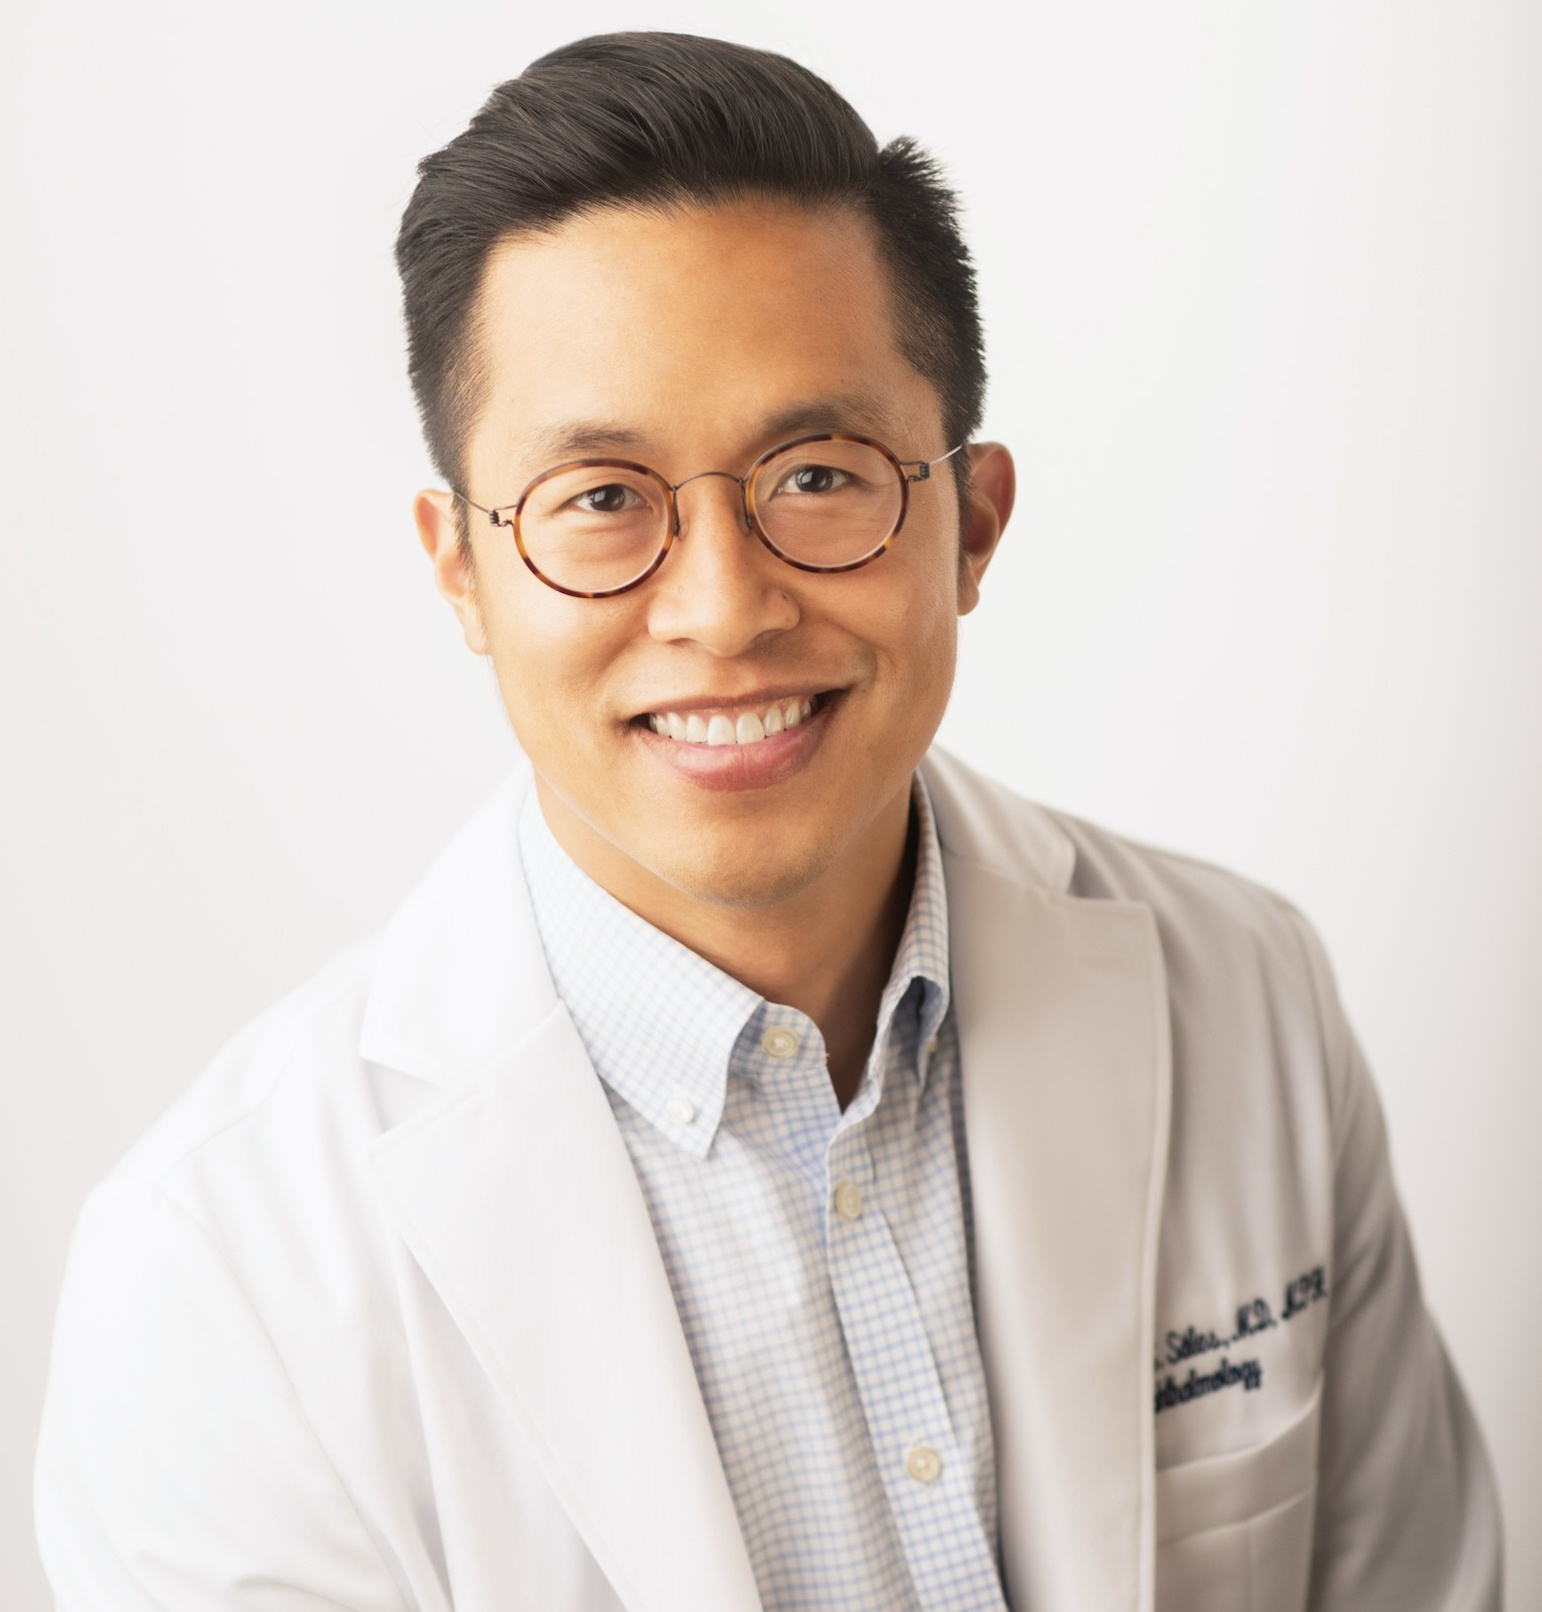
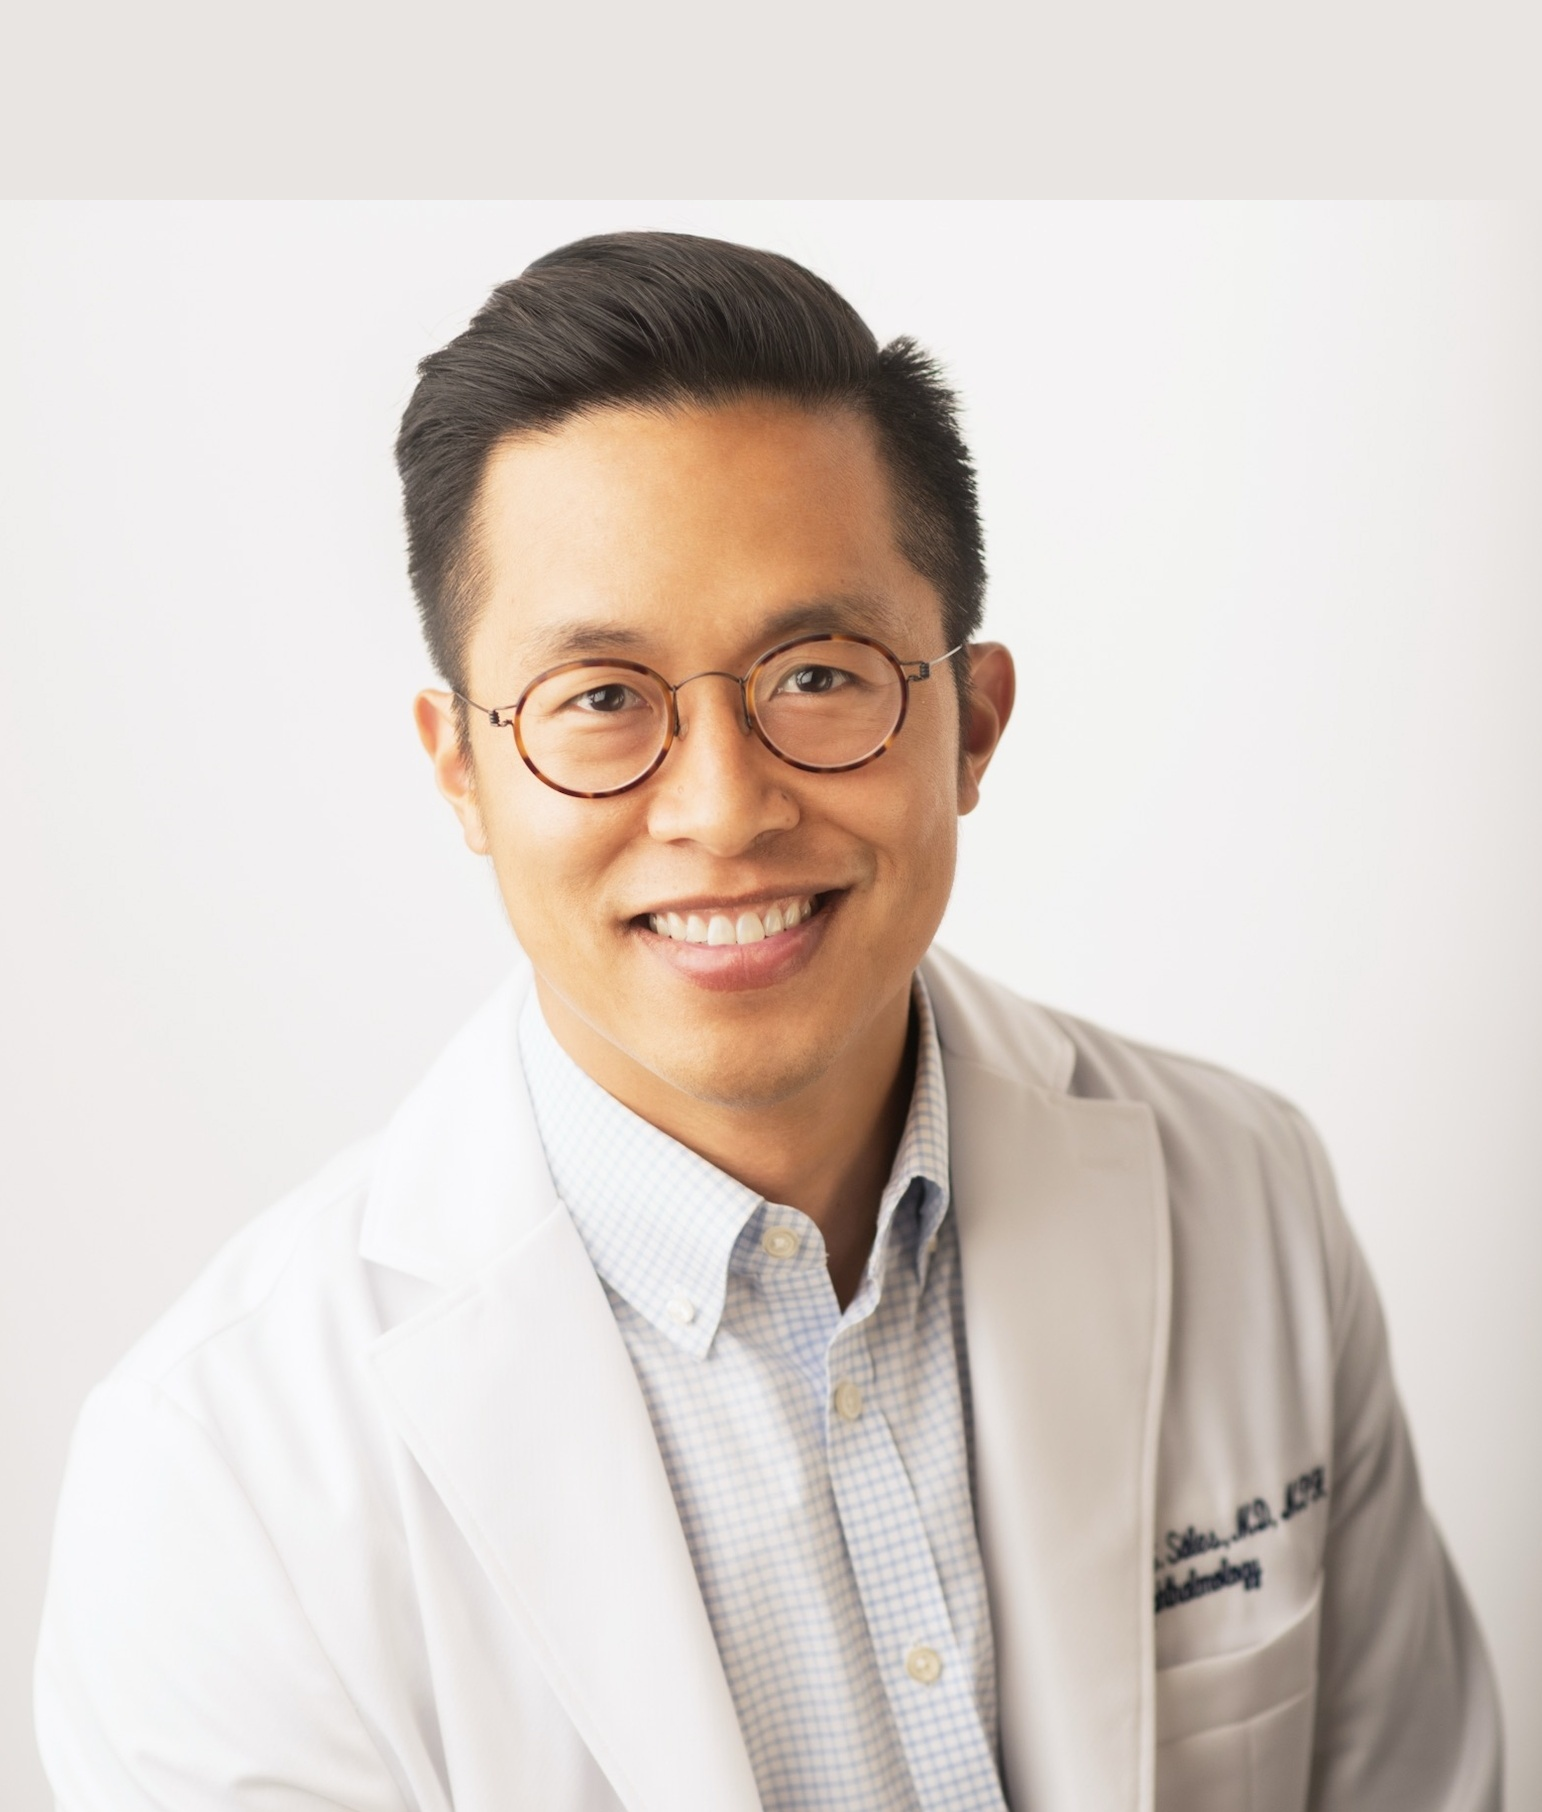
Add Vimeo videos to resources page, fix hero photo framing and rotating text
- Add 4 Vimeo videos from Dr. Sales: Fuchs 101, Lens Implant Choices,
  Cataract Post-Op, DMEK Post-Op
- Fix rotating text "involve you in decisions" clipping with whitespace-nowrap
- Adjust hero photo framing per Chris's crop guide (more headroom above head)

Changed region(s): [[0.249, 0.0, 0.9339, 0.9615], [0.9339, 0.8375, 0.965, 0.8995], [0.7471, 0.7134, 0.7782, 0.7754]]

diff --git a/src/app/resources/page.tsx b/src/app/resources/page.tsx
@@ -62,6 +62,37 @@ export default function ResourcesPage() {
         </div>
       </Section>
 
+      {/* Video Resources */}
+      <Section background="light">
+        <SectionHeader
+          title="Videos from Dr. Sales"
+          subtitle="Watch Dr. Sales explain common conditions and what to expect before and after surgery"
+        />
+        <div className="grid md:grid-cols-2 gap-8 max-w-5xl mx-auto">
+          {[
+            { title: 'Fuchs\' Dystrophy 101', vimeoId: '1174611919', hash: '82c202ed85', aspect: '75%' },
+            { title: 'Choosing the Right Lens Implant', vimeoId: '1174611822', hash: '0f299a896c', aspect: '56.25%' },
+            { title: 'Cataract Post-Op Instructions', vimeoId: '1174612124', hash: '054dedea20', aspect: '56.25%' },
+            { title: 'DMEK Post-Op Instructions', vimeoId: '1174612043', hash: '448e6c9226', aspect: '56.25%' },
+          ].map((video) => (
+            <div key={video.vimeoId} className="bg-white rounded-xl border border-neutral-200 overflow-hidden shadow-soft">
+              <div style={{ padding: `${video.aspect} 0 0 0`, position: 'relative' }}>
+                <iframe
+                  src={`https://player.vimeo.com/video/${video.vimeoId}?h=${video.hash}&badge=0&autopause=0&player_id=0&app_id=58479`}
+                  allow="autoplay; fullscreen; picture-in-picture; clipboard-write; encrypted-media; web-share"
+                  referrerPolicy="strict-origin-when-cross-origin"
+                  style={{ position: 'absolute', top: 0, left: 0, width: '100%', height: '100%' }}
+                  title={video.title}
+                />
+              </div>
+              <div className="p-4">
+                <h3 className="font-display font-semibold text-charcoal text-sm">{video.title}</h3>
+              </div>
+            </div>
+          ))}
+        </div>
+      </Section>
+
       {/* CTA */}
       <Section background="dark" className="text-center">
         <h2 className="heading-lg text-white mb-4">Have Questions?</h2>

diff --git a/src/components/home/HeroSection.tsx b/src/components/home/HeroSection.tsx
@@ -85,7 +85,7 @@ export default function HeroSection() {
               an MD
               <br />
               who takes time to{' '}
-              <span className="relative inline-flex items-baseline overflow-hidden" style={{ height: '1.25em' }}>
+              <span className="relative inline-flex items-baseline overflow-hidden whitespace-nowrap" style={{ height: '1.25em' }}>
                 <AnimatePresence mode="wait">
                   <m.span
                     key={started ? phraseIndex : 'init'}
@@ -158,7 +158,7 @@ export default function HeroSection() {
                 src="/images/dr-sales-hero.jpg"
                 alt="Dr. Christopher Sales"
                 fill
-                className="object-cover object-[center_20%]"
+                className="object-cover object-top"
                 priority
                 sizes="(max-width: 1024px) 100vw, 40vw"
               />
